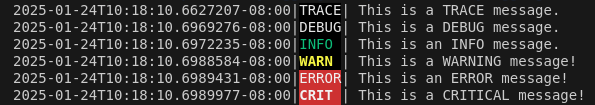
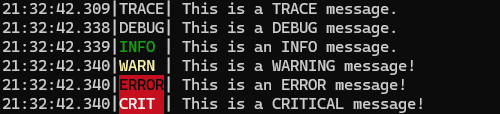
Use shorter timestamp by default (#36)
* Use slnx

* Use shorter timestamp by default

* Make shorter local time to be default

* Change back example project reference

* Update readme

* Bump up version prefix to 1.0.2

diff --git a/src/PrettyLogging.Console/LoggingFormatter.cs b/src/PrettyLogging.Console/LoggingFormatter.cs
@@ -83,11 +83,16 @@ internal class LoggingFormatter : ConsoleFormatter, IDisposable
         string logLevelString = GetLogLevelString(logLevel);
 
         string? timestamp = null;
-        string? timestampFormat = _formatterOptions.TimestampFormat;
-        if (timestampFormat != null && _formatterOptions.ShowTimestamp)
+        if (_formatterOptions.ShowTimestamp)
         {
+            string? timestampFormat = _formatterOptions.TimestampFormat;
+            if(string.IsNullOrEmpty(timestampFormat))
+            {
+                timestampFormat = _formatterOptions.UseUtcTimestamp ? "o" : "HH:mm:ss.fff";
+            }
             timestamp = stamp.ToString(timestampFormat);
         }
+
         if (timestamp != null)
         {
             textWriter.Write(timestamp);
@@ -282,7 +287,7 @@ internal class LoggingFormatter : ConsoleFormatter, IDisposable
         public ConsoleColor? Background { get; }
     }
 
-    private DateTimeOffset GetCurrentDateTime() => _formatterOptions.TimestampFormat != null
+    private DateTimeOffset GetCurrentDateTime() => _formatterOptions.ShowTimestamp 
             ? (_formatterOptions.UseUtcTimestamp ? DateTimeOffset.UtcNow : DateTimeOffset.Now)
             : DateTimeOffset.MinValue;
 

diff --git a/examples/UsePrettyLogging.Console/Program.cs b/examples/UsePrettyLogging.Console/Program.cs
@@ -22,7 +22,7 @@ using ILoggerFactory factory = LoggerFactory.Create(builder =>
         opt.LogLevelCase = PrettyLogging.Console.LogLevelCase.Upper;
         opt.CategoryMode = PrettyLogging.Console.LoggerCategoryMode.Short;
         opt.ColorBehavior = Microsoft.Extensions.Logging.Console.LoggerColorBehavior.Enabled;
-        opt.TimestampFormat = "HH:mm:ss";
+        opt.UseUtcTimestamp = false;
         // opt.ApplySinglelineInMessage = false;
     });
 #endif

diff --git a/src/PrettyLogging.Console/LoggingFormatterOptions.cs b/src/PrettyLogging.Console/LoggingFormatterOptions.cs
@@ -4,14 +4,6 @@ namespace PrettyLogging.Console;
 
 public class LoggingFormatterOptions : ConsoleFormatterOptions
 {
-    public LoggingFormatterOptions()
-    {
-        if (string.IsNullOrEmpty(TimestampFormat))
-        {
-            TimestampFormat = "o";
-        }
-    }
-
     /// <summary>
     /// Gets or sets a value indicating whether to show the log level.
     /// </summary>

diff --git a/Readme.md b/Readme.md
@@ -1,38 +1,40 @@
 # Pretty Logging [![NuGet Version](https://img.shields.io/nuget/vpre/PrettyLogging.Console?style=flat)](https://www.nuget.org/packages/PrettyLogging.Console)
 
-Make `Microsoft.Extensions.Logging` easier on the eyes!
+Enhance the readability of `Microsoft.Extensions.Logging` output!
 
-![A image shows the logging output](https://raw.githubusercontent.com/xiaomi7732/PrettyLogging/main/docs/images/logging.png)
+![Logging output example](https://raw.githubusercontent.com/xiaomi7732/PrettyLogging/main/docs/images/logging.png)
 
-Starting from version `1.0.1`, line breaks in single-line logs are now honored by default.
+Starting with version `1.0.1`, line breaks in single-line logs are now preserved by default.
 
-![A image shows the line breaker](https://raw.githubusercontent.com/xiaomi7732/PrettyLogging/main/docs/images/line-breaker-message.png)
+![Line break example](https://raw.githubusercontent.com/xiaomi7732/PrettyLogging/main/docs/images/line-breaker-message.png)
 
-## ⭐ if you like it ![GitHub Repo stars](https://img.shields.io/github/stars/xiaomi7732/PrettyLogging?style=plastic)
+## ⭐ Show your support! ![GitHub Repo stars](https://img.shields.io/github/stars/xiaomi7732/PrettyLogging?style=plastic)
 
-If you like this project, please ⭐ it by clicking the star in the top-right corner to help others discover it!
+If you enjoy this project, please give it a ⭐ to help others discover it!
 
-Got ideas or found a bug? Feel free to open an issue and share your feedback!
+Have suggestions or found a bug? Open an issue and share your feedback!
 
-## Getting started
+## Getting Started
 
-1. Install the NuGet package:
+1. **Install the NuGet package:**
 
-    Run the following command to add the package:
+    Add the package to your project by running:
 
     ```shell
     dotnet add package PrettyLogging.Console
     ```
 
-1. Optionally, always keep up with the latest by using floating version:
+1. **Stay up-to-date with floating versions (optional):**
+
+    Use a floating version to always get the latest updates:
 
     ```xml
     <PackageReference Include="PrettyLogging.Console" Version="[1.*-*, 2.0)" />
     ```
 
-    See [UsePrettyLogging.Console.csproj](https://github.com/xiaomi7732/PrettyLogging/blob/757621b339f0ccd7d7fc47e97e8a87dddd8ed4ed/examples/UsePrettyLogging.Console/UsePrettyLogging.Console.csproj#L5) for example.
+    For an example, see [UsePrettyLogging.Console.csproj](https://github.com/xiaomi7732/PrettyLogging/blob/main/examples/UsePrettyLogging.Console/UsePrettyLogging.Console.csproj#L5).
 
-1. Set up Pretty Logging in your app
+1. **Set up Pretty Logging in your app:**
 
     Add the `PrettyIt()` method to your logger configuration:
 
@@ -40,18 +42,17 @@ Got ideas or found a bug? Feel free to open an issue and share your feedback!
     builder.Logging.PrettyIt();
     ```
 
-    For a full example, check out [Program.cs](./examples/UsePrettyLogging.WebAPI/Program.cs).
+    - For a complete example, see [Program.cs](./examples/UsePrettyLogging.WebAPI/Program.cs).
+    - For **console applications**, refer to this [Program.cs](examples/UsePrettyLogging.Console/Program.cs).
 
-    If you are using this with an **Console application**, check out this [Program.cs](examples/UsePrettyLogging.Console/Program.cs).
+1. **Customize the output (optional):**
 
-1. Optionally, customize it:
+    Tailor the log output to your needs by adjusting options like log level visibility, timestamp inclusion, log format (single-line or multi-line), color behavior, and more. See [Options.md](docs/Options.md) for details.
 
-    You can customize log output by controlling options such as log level visibility, timestamp inclusion, log format (single-line or multi-line), color behavior and more. See [Options.md](docs/Options.md) for more details.
+1. **Enjoy cleaner logs:**
 
-1. Enjoy the clean output
-
-    * Console application
-        * Before:
+    - **Console application:**
+        - Before:
 
             ```log
             info: Program[0]
@@ -60,15 +61,15 @@ Got ideas or found a bug? Feel free to open an issue and share your feedback!
                 This is a warning!
             ```
 
-        * After:
+        - After:
 
             ```log
             2025-01-03T16:28:30.2001407-08:00|INFO |Hello Pretty Logging
             2025-01-03T16:28:30.2064911-08:00|WARN |This is a warning!
             ```
 
-    * WebAPI:
-        * Before:
+    - **WebAPI:**
+        - Before:
 
             ```log
             info: Microsoft.Hosting.Lifetime[14]
@@ -89,7 +90,7 @@ Got ideas or found a bug? Feel free to open an issue and share your feedback!
                 Request finished HTTP/1.1 GET http://localhost:5140/ - 200 - text/plain;+charset=utf-8 36.5664ms
             ```
 
-        * After:
+        - After:
 
             ```log
             2025-01-03T17:56:08.7340978-08:00|INFO |Now listening on: http://localhost:5140
